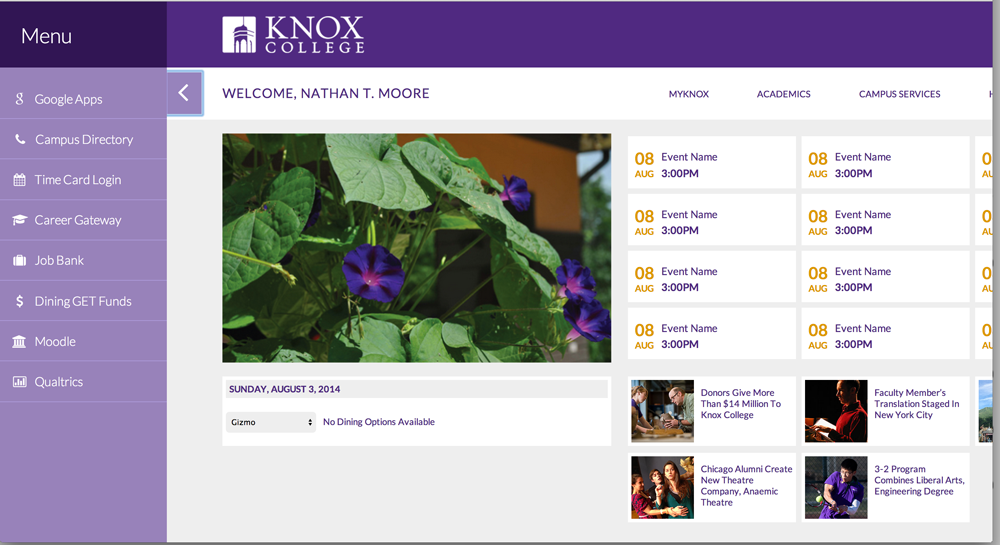
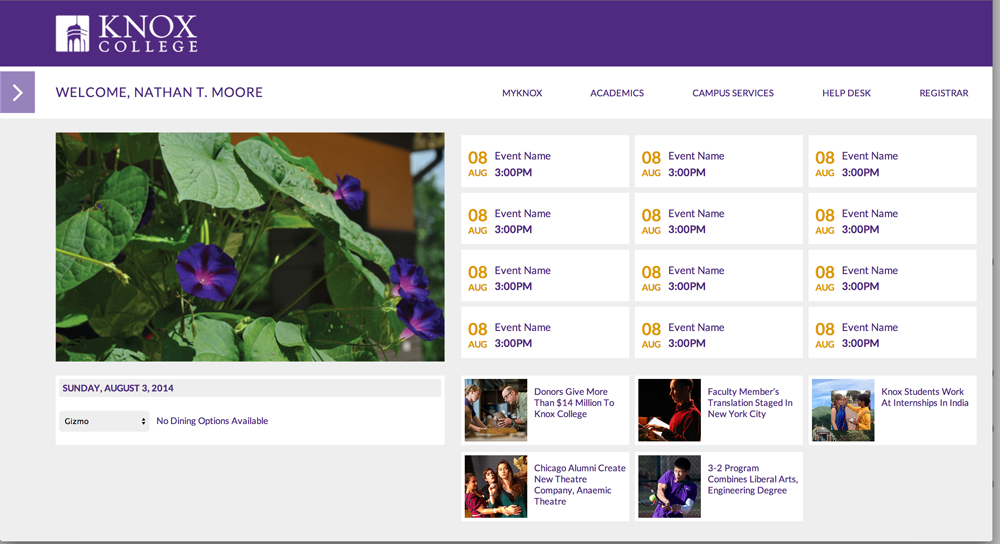
fixes (also commit #200!)

diff --git a/nathan/p7/ba.html b/nathan/p7/ba.html
@@ -1,0 +1,33 @@
+<!DOCTYPE html>
+<html>
+    <head>
+        <meta charset="utf-8">
+        <title>Reverse Engineering a Grid</title>
+        <meta name="viewport" content="width=device-width">
+        <link rel="stylesheet" href="css/main.css">   
+        <script src="http://ajax.googleapis.com/ajax/libs/jquery/1.11.1/jquery.min.js"></script>
+
+
+        <script>
+        $(document).ready(function () {
+        $('.image').click(function () {
+            $(this).hide();
+            var next = $(this).next();
+            console.log(next.length);
+            if (next.length == 0)
+                next = $(this).parent().find('.image').first();
+                    next.show();
+                });
+            });
+        </script>     
+    </head>
+    
+    <body  style="background-color: white;">
+    	<div id="container">
+                <img src="img/before.png" class="image default">
+                <img src="img/after.png" class="image">
+		</div>
+
+    </body>
+    
+</html>

diff --git a/nathan/p7/index.html b/nathan/p7/index.html
@@ -2,7 +2,7 @@
 <html>
     <head>
         <meta charset="utf-8">
-        <title>Positioning</title>
+        <title>Navigation Redesign</title>
         <meta name="viewport" content="width=device-width">
         <link rel="stylesheet" href="../css/main.css">
         <link href='http://fonts.googleapis.com/css?family=Lato:300,700' rel='stylesheet' type='text/css'>    
@@ -28,10 +28,9 @@
 
         <div class="links">
             <ul>
-                <li><a href="img/before.png">Before</a></li>
-                <li><a href="img/after.png">After</a></li>
+                <li><a href="ba.html">Before & After</a></li>
                 <li><a href="live.html">Live Example</a></li>
-            </ul
+            </ul>
 		</div>
 
     </body>
